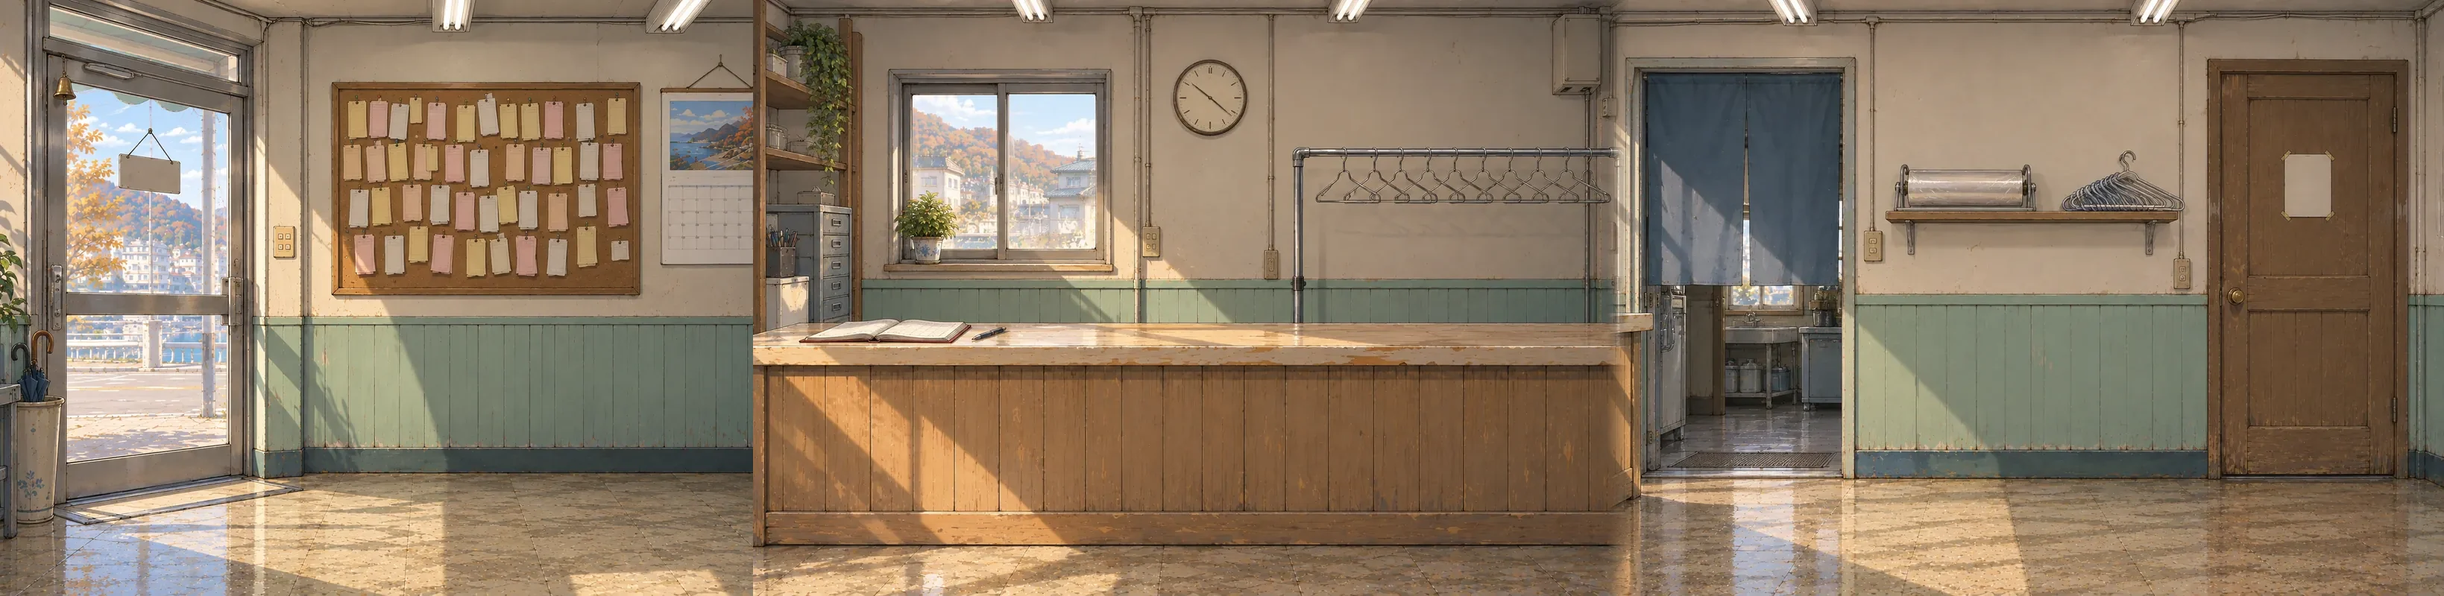
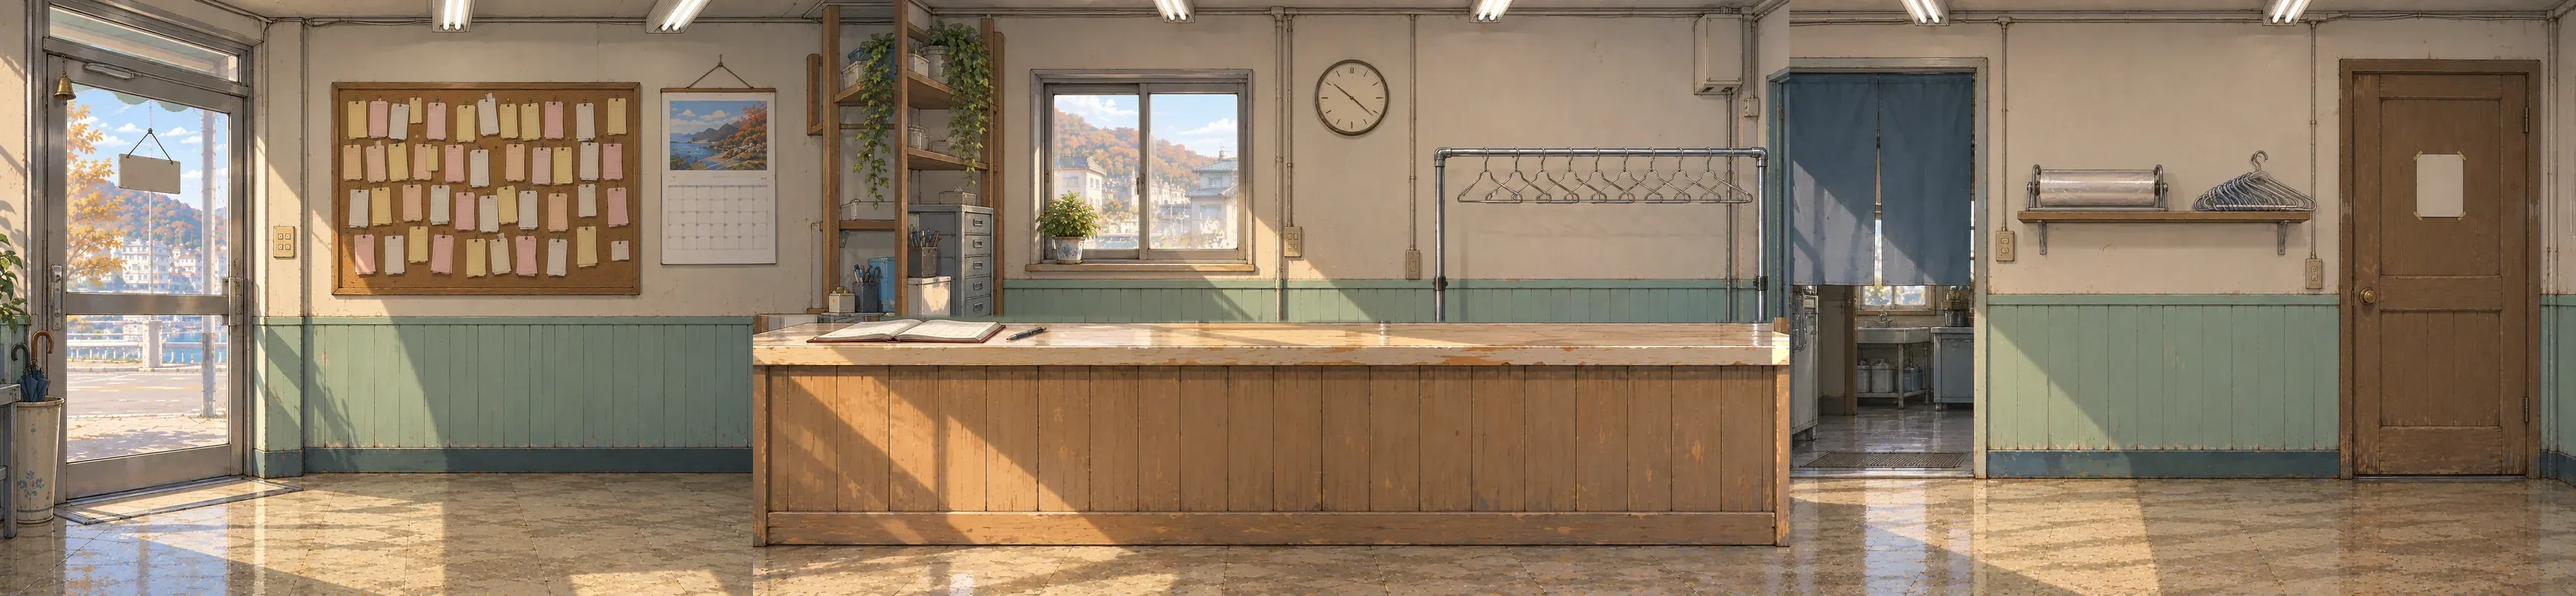
세탁소 내부 다시 잇기: 벽·선반은 원래 그림대로 잇고, 카운터는 가로로 늘려 출입문 쪽 끝부터 시작, 오른쪽 끝에 모서리를 만들고 작업장 문 쪽 밝기·바닥을 맞춤

diff --git a/yunseul-ch1.html b/yunseul-ch1.html
@@ -1027,8 +1027,8 @@ Object.assign(IMG_BG,{
       +`<text x="2285" y="108" text-anchor="middle" font-family="Gowun Batang,serif" font-size="50" font-weight="700" fill="#FBF3E0" stroke="#4A2E1A" stroke-width="3" paint-order="stroke">여름꽃집</text>`},
   banchan:{src:()=>[SCN(S&&S.bongDown?"banchan-down":"banchan")]},
   flowershop:{src:()=>[SCN(S&&S.bucketDown?"flowershop-down":"flowershop")]},
-  counter:{src:[SCN("counter-wide")],ws:[1010,1175,1093],homeX:1010,names:["출입문","카운터","작업장 · 창고"],home:1,
-    over:()=>`<g transform="rotate(-2 3095 255)"><text x="3095" y="244" text-anchor="middle" font-family="${HAND}" font-size="26" fill="#B03A48">손대지</text><text x="3095" y="272" text-anchor="middle" font-family="${HAND}" font-size="26" fill="#B03A48">말 것</text></g><rect x="955" y="292" width="13" height="13" fill="none" stroke="#C8436A" stroke-width="2.5"/>`},
+  counter:{src:[SCN("counter-wide")],ws:[1200,1200,1055],homeX:1200,names:["출입문","카운터","작업장 · 창고"],home:1,
+    over:()=>`<g transform="rotate(-2 3272 255)"><text x="3272" y="244" text-anchor="middle" font-family="${HAND}" font-size="26" fill="#B03A48">손대지</text><text x="3272" y="272" text-anchor="middle" font-family="${HAND}" font-size="26" fill="#B03A48">말 것</text></g><rect x="955" y="292" width="13" height="13" fill="none" stroke="#C8436A" stroke-width="2.5"/>`},
   workshop:{src:[SCN("workshop")],over:()=>`<text x="624" y="437" text-anchor="middle" font-family="${HAND}" font-size="19" fill="#B03A48">사용</text><text x="624" y="458" text-anchor="middle" font-family="${HAND}" font-size="19" fill="#B03A48">금지</text>`},
   alley:{src:[SCN("alley")]},
   homeroad:{src:[SCN("homeroad-harbor"),SCN("homeroad-stairs")],names:["항구 길","돌계단"],home:0},
@@ -1763,20 +1763,20 @@ const LOCS={
     {id:"sign",x:1605,y:340,w:76,h:56,label:"유리문 팻말",show:()=>S.shutterUp,run:()=>signRun()}
   ]},
   counter:{title:"카운터",bg:"counter",spots:[
-    {id:"hanger",x:1730,y:190,w:450,h:300,label:"세탁물 행거",art:()=>railArt(),run:()=>hangerRun()},
+    {id:"hanger",x:1920,y:190,w:450,h:300,label:"세탁물 행거",art:()=>railArt(),run:()=>hangerRun()},
     {id:"board",x:440,y:105,w:420,h:295,label:"코르크 보드",run:()=>S.phase!=="d2_invest"?[M("찾아가지 않은 세탁물 태그가 빽빽하다. 이모는 뭐 하나 버리질 못했다.")]:S.sawDate?[M("06.12.24. 저 번호표만 유난히 오래됐다.")]:[
       M("찾아가지 않은 세탁물 태그가 이렇게 많다니."),
       N("보드 구석, 다른 태그 밑에 반쪽짜리 번호표가 깔려 있다. 누렇게 바래고 물에 번졌다."),
       DO(()=>{S.sawDate=true;}),DOC("memo_board"),
       M("번호는 번져서 안 보이고 날짜만 남았네. 06.12.24. 20년 가까이 된 거야.")]},
-    {id:"cal",x:880,y:80,w:130,h:280,label:"달력",run:()=>[M("이모 달력은 8월에서 멈춰 있었다. 11월로 넘긴 건 나다."),M("빨간 네모는 내가 쳐 놓은 거다. 첫 월세 내는 날.")]},
+    {id:"cal",x:880,y:80,w:165,h:280,label:"달력",run:()=>[M("이모 달력은 8월에서 멈춰 있었다. 11월로 넘긴 건 나다."),M("빨간 네모는 내가 쳐 놓은 거다. 첫 월세 내는 날.")]},
     {id:"switch",x:358,y:294,w:46,h:56,label:"전등 스위치",run:()=>switchRun()},
     {id:"entrance",x:40,y:40,w:300,h:640,label:"출입문",run:()=>entranceRun()},
-    {id:"work",x:2193,y:90,w:280,h:550,label:"작업장",go:"workshop"},
-    {id:"door",x:2963,y:80,w:260,h:560,label:"창고 문",run:()=>storageDoorRun()},
-    {id:"book",x:1065,y:412,w:240,h:64,label:"접수 장부",run:()=>bookRun()},
-    {id:"coat",x:1620,y:380,w:210,h:110,label:()=>S.phase==="d1_wash"?"빨래 바구니":"옥색 저고리",show:coatOnCounter,art:()=>S.phase==="d1_wash"?`<g transform="translate(1170 -88)">${BASKET_ART()}</g>`:`<g transform="translate(1160 -80)">${JEOGORI}</g>`,run:()=>coatRun()},
-    {id:"glass",x:1629,y:739,w:42,h:42,label:"바닥 틈",show:()=>S.phase==="d2_invest"&&!S.glass,art:()=>`<g transform="translate(1039 19)">${GLASS}</g>`,run:()=>[
+    {id:"work",x:2370,y:90,w:280,h:550,label:"작업장",go:"workshop"},
+    {id:"door",x:3140,y:80,w:260,h:560,label:"창고 문",run:()=>storageDoorRun()},
+    {id:"book",x:1074,y:412,w:278,h:64,label:"접수 장부",run:()=>bookRun()},
+    {id:"coat",x:1716,y:380,w:243,h:110,label:()=>S.phase==="d1_wash"?"빨래 바구니":"옥색 저고리",show:coatOnCounter,art:()=>S.phase==="d1_wash"?`<g transform="translate(1266 -88)">${BASKET_ART()}</g>`:`<g transform="translate(1256 -80)">${JEOGORI}</g>`,run:()=>coatRun()},
+    {id:"glass",x:1727,y:739,w:42,h:42,label:"바닥 틈",show:()=>S.phase==="d2_invest"&&!S.glass,art:()=>`<g transform="translate(1137 19)">${GLASS}</g>`,run:()=>[
       N("카운터 아래, 바닥 틈에서 무언가 반짝인다. 푸른 유리구슬 하나."),
       M("구슬치기용 구슬이네. 이게 왜 카운터 밑에 있지?"),
       CARD("glass")]}
@@ -3023,7 +3023,7 @@ function railClothes(){
   if(!S||!S.hung) return [];
   return LOAD_ALL.filter(id=>!(id==="jeogori"&&(S.gave||coatOnCounter()))&&!(id==="blazer"&&S.suaPicked)&&!(/^shirt/.test(id)&&S.choiPicked));
 }
-function railArt(){ const L=railClothes(); return L.map((id,i)=>`<g transform="translate(${1800+i*70} 205) scale(.82)">${hungArt(id,1)}${vinylArt(1)}${tagArt(1,TAGNO[id])}</g>`).join(""); }
+function railArt(){ const L=railClothes(); return L.map((id,i)=>`<g transform="translate(${1990+i*70} 205) scale(.82)">${hungArt(id,1)}${vinylArt(1)}${tagArt(1,TAGNO[id])}</g>`).join(""); }
 const BASKET_ART=()=>`<g transform="translate(560 528)"><ellipse cx="0" cy="34" rx="92" ry="8" fill="#000" opacity=".2"/>${foldedArt("blazer",-26,-6,.62)}${foldedArt("shirt1",26,-14,.6)}${foldedArt("shirt2",-10,-22,.58)}${foldedArt("jeogori",12,-30,.6)}<path d="M-86 -6 L86 -6 L74 36 L-74 36 Z" fill="#E7A33E" stroke="${OLx}" stroke-width="2"/>${[-60,-36,-12,12,36,60].map(x=>`<rect x="${x-6}" y="4" width="12" height="22" rx="3" fill="#B97A24"/>`).join("")}</g>`;
 
 /* --- sign: drag sideways (or tap) to spin the plaque until the wanted side faces out --- */
